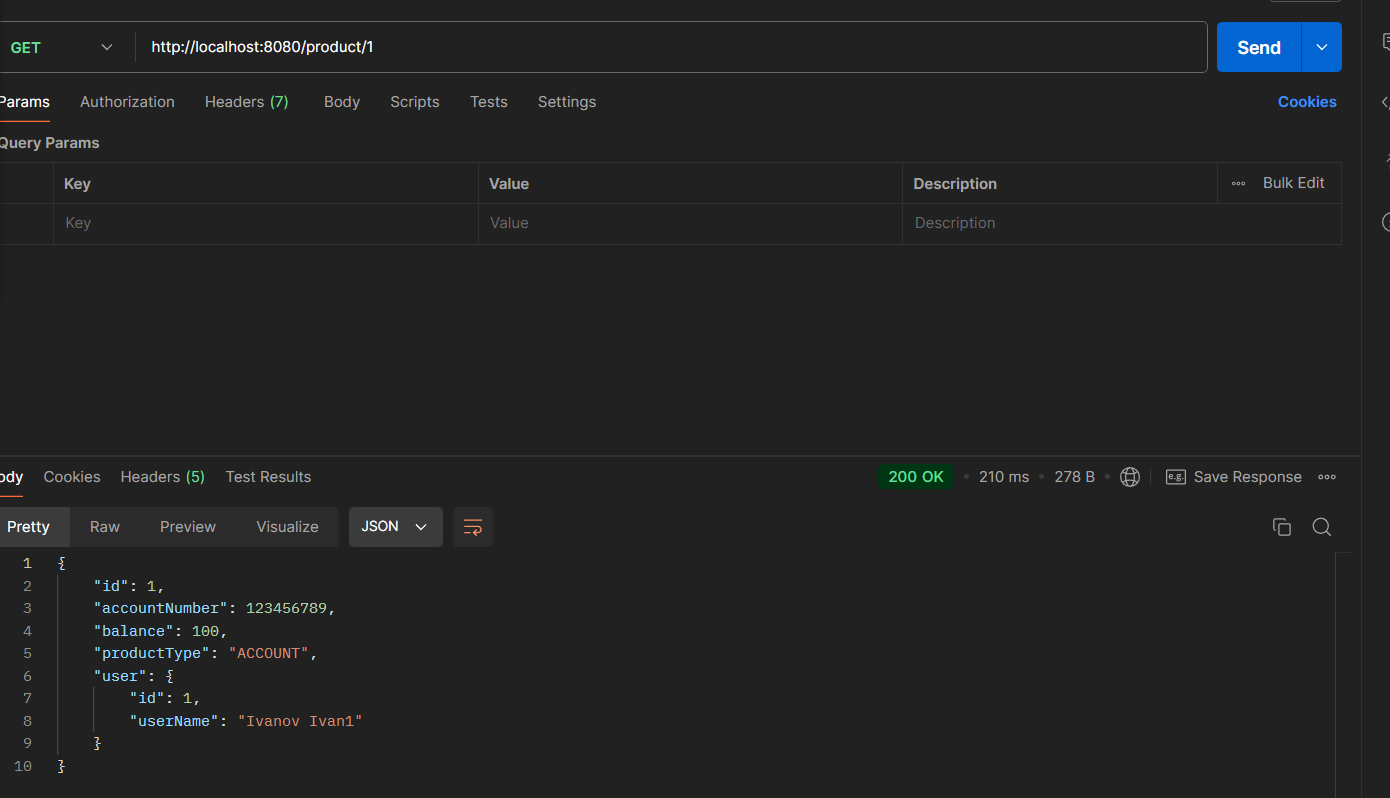
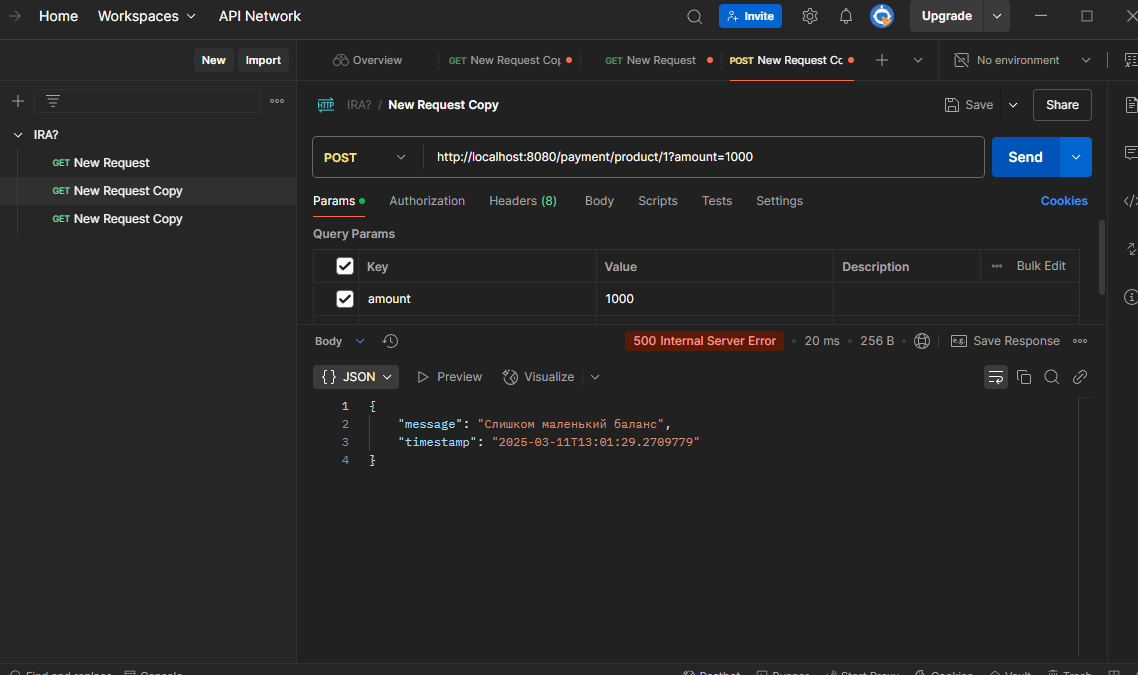
Add solve: add rest

diff --git a/sping-task/src/main/java/com/loy/api/GlobalExceptionHandler.java b/sping-task/src/main/java/com/loy/api/GlobalExceptionHandler.java
@@ -1,0 +1,23 @@
+package com.loy.api;
+
+import com.loy.dto.ErrorResponseDto;
+import com.loy.exception.ProductNotFound;
+import org.springframework.http.HttpStatus;
+import org.springframework.web.bind.annotation.*;
+import org.springframework.web.servlet.mvc.method.annotation.ResponseEntityExceptionHandler;
+
+import java.time.LocalDateTime;
+
+@RestControllerAdvice
+public class GlobalExceptionHandler extends ResponseEntityExceptionHandler {
+    @ExceptionHandler(ProductNotFound.class)
+    @ResponseStatus(HttpStatus.BAD_REQUEST)
+    public ErrorResponseDto handleBadRequest(ProductNotFound e) {
+        return new ErrorResponseDto(e.getMessage(), LocalDateTime.now());
+    }
+    @ExceptionHandler(Exception.class)
+    @ResponseStatus(HttpStatus.INTERNAL_SERVER_ERROR)
+    public ErrorResponseDto handleIntegrationException(Exception e) {
+        return new ErrorResponseDto(e.getMessage(), LocalDateTime.now());
+    }
+}

diff --git a/sping-task/src/main/java/com/loy/api/ProductRestController.java b/sping-task/src/main/java/com/loy/api/ProductRestController.java
@@ -3,10 +3,7 @@ package com.loy.api;
 import com.loy.model.Product;
 import com.loy.service.ProductService;
 import lombok.RequiredArgsConstructor;
-import org.springframework.web.bind.annotation.GetMapping;
-import org.springframework.web.bind.annotation.PathVariable;
-import org.springframework.web.bind.annotation.RequestMapping;
-import org.springframework.web.bind.annotation.RestController;
+import org.springframework.web.bind.annotation.*;
 
 import java.util.List;
 
@@ -19,6 +16,11 @@ public class ProductRestController {
     @GetMapping("/{id}")
     public Product getProduct(@PathVariable("id") long id) {
         return productService.getProduct(id);
+    }
+
+    @PatchMapping("/{id}")
+    public Product update(@RequestBody Product product) {
+        return productService.updateProduct(product);
     }
 
     @GetMapping("user/{id}")

diff --git a/sping-task/src/main/java/com/loy/service/ProductService.java b/sping-task/src/main/java/com/loy/service/ProductService.java
@@ -1,6 +1,7 @@
 package com.loy.service;
 
 import com.loy.dao.ProductDao;
+import com.loy.exception.ProductNotFound;
 import com.loy.model.Product;
 import lombok.RequiredArgsConstructor;
 import org.springframework.stereotype.Service;
@@ -20,7 +21,7 @@ public class ProductService {
     }
 
     public Product getProduct(long id) {
-        return productDao.findById(id).orElseThrow(() -> new RuntimeException("Product with id: " + id + " not found"));
+        return productDao.findById(id).orElseThrow(() -> new ProductNotFound("Product with id: " + id + " not found"));
     }
 
     public List<Product> getAllByUserId(long userId) {

diff --git a/sping-task/src/main/java/com/loy/exception/ProductNotFound.java b/sping-task/src/main/java/com/loy/exception/ProductNotFound.java
@@ -1,0 +1,7 @@
+package com.loy.exception;
+
+public class ProductNotFound extends RuntimeException{
+    public ProductNotFound(String message) {
+        super(message);
+    }
+}

diff --git a/sping-task/src/main/java/com/loy/dto/ErrorResponseDto.java b/sping-task/src/main/java/com/loy/dto/ErrorResponseDto.java
@@ -1,0 +1,5 @@
+package com.loy.dto;
+
+import java.time.LocalDateTime;
+
+public record ErrorResponseDto(String message, LocalDateTime timestamp) {}

diff --git a/README.md b/README.md
@@ -1,15 +1,11 @@
-Доработайте сервис, пусть теперь он хранит продукты клиентов.
+Добавте сервис платежного ядра в один проект с сервисом продуктов в виде отдельного модуля
 
-Хранение продуктов необходимо организовать аналогично ранее добавленным пользователям.
+Добавить интеграцию платежного сервиса с сервисом продуктов через RestTemplate (или RestClient)
 
-У каждого пользователя может быть несколько продуктов, но у каждого продукта один пользователь.
+Добавить возможность запрашивать продукты у платежного сервиса (клиент кидает запрос в платежный сервис, платежный сервис запрашивает продукты клиента у сервиса продуктов и возвращает клиенту результат)
 
-Продукт клиента: id, номер счета, баланс, тип продукта (счет, карта), userId.
+Добавить процесс исполнения платежа , так же в нем выбор продукта, проверку его существования и достаточности средств на нем
 
-Сервис должен хранить продукты.
+Добавить возврат ошибок клиенту о проблемах как на стороне платежного сервиса, так и на стороне сервиса продуктов
 
-Сервис должен давать возможность: запросить все продукты по userId, запросить продукт по productId.
-
-Все изменения в БД выполняются через инструмент миграции, добавленный ранее
- 
-Скрин postman:![img_2.png](img_2.png)![img.png](img.png)
+Скрин postman: ![img.png](img.png)![img_1.png](img_1.png)![img_2.png](img_2.png) ![img_3.png](img_3.png)
